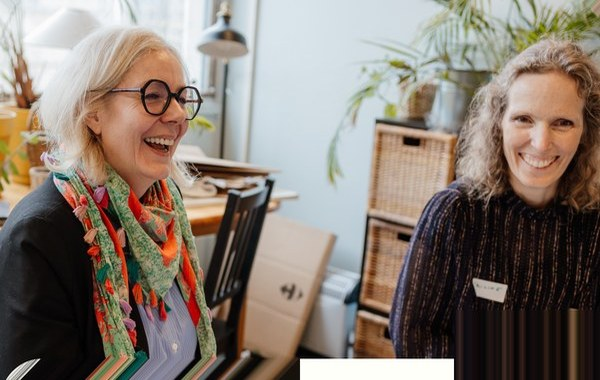
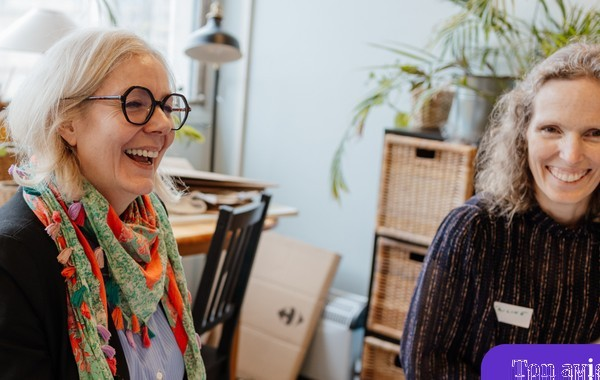
Use full-bleed hero photos only; overlay badges with HTML/CSS.

diff --git a/email-02.html b/email-02.html
@@ -107,34 +107,36 @@
                 </a>
               </td>
             </tr>
-            <!-- Hero image (clean photo; radii via CSS) -->
+            <!-- Hero: full photo only; CSS radii + HTML badge overlay -->
             <tr>
               <td align="center" bgcolor="#FFFFFF" style="background-color:#FFFFFF;padding:0;line-height:0;font-size:0;">
                 <!--[if !mso]><!-->
-                <picture>
-                  <source type="image/webp" srcset="images/email-02-hero-600.webp">
-                  <img src="images/email-02-hero-600.jpg" width="600" height="380" alt="Enfants jouant avec des blocs" fetchpriority="high" decoding="async" style="display:block;border:0;outline:none;text-decoration:none;width:100%;max-width:600px;height:auto;border-top-left-radius:24px;border-top-right-radius:24px;border-bottom-right-radius:6px;border-bottom-left-radius:6px;" />
-                </picture>
-                <!--<![endif]-->
-                <!--[if mso]>
-                <img src="images/email-02-hero.jpg" width="600" height="380" alt="Enfants jouant avec des blocs" style="display:block;border:0;outline:none;text-decoration:none;width:600px;height:380px;" />
-                <![endif]-->
-              </td>
-            </tr>
-            <!-- Intro: scoop radius + HTML badges on the image/content seam -->
-            <tr>
-              <td align="center" bgcolor="#FFFFF9" class="mobile-pad" style="background-color:#FFFFF9;padding:0 61px 37px 61px;border-top-left-radius:42px;border-top-right-radius:0;border-bottom-right-radius:0;border-bottom-left-radius:0;">
-                <!--[if !mso]><!-->
-                <div style="text-align:right;margin:-42px -61px 37px 0;line-height:normal;font-size:0;">
-                  <span style="display:inline-block;padding:9px 18px;background-color:#F8F3FF;color:#5F2EC8;font-family:'Merriweather',Georgia,'Times New Roman',serif;font-size:14px;line-height:18px;font-weight:800;border-top-left-radius:22px;border-top-right-radius:0;border-bottom-right-radius:0;border-bottom-left-radius:22px;vertical-align:middle;">Spécial Inclusion</span><span style="display:inline-block;padding:12px 22px;background-color:#5F2EC8;color:#FFFFFF;font-family:'Merriweather',Georgia,'Times New Roman',serif;font-size:14px;line-height:18px;font-weight:800;border-top-left-radius:0;border-top-right-radius:22px;border-bottom-right-radius:22px;border-bottom-left-radius:0;vertical-align:middle;">Maternelle</span>
+                <div style="max-width:600px;margin:0 auto;position:relative;line-height:0;font-size:0;">
+                  <picture>
+                    <source type="image/webp" srcset="images/email-02-hero-600.webp">
+                    <img src="images/email-02-hero-600.jpg" width="600" height="380" alt="Enfants jouant avec des blocs" fetchpriority="high" decoding="async" style="display:block;border:0;outline:none;text-decoration:none;width:100%;max-width:600px;height:auto;border-top-left-radius:24px;border-top-right-radius:24px;border-bottom-right-radius:6px;border-bottom-left-radius:6px;" />
+                  </picture>
+                  <div style="position:absolute;right:0;bottom:0;line-height:normal;font-size:0;text-align:right;">
+                    <span style="display:inline-block;padding:9px 18px;background-color:#F8F3FF;color:#5F2EC8;font-family:'Merriweather',Georgia,'Times New Roman',serif;font-size:14px;line-height:18px;font-weight:800;border-top-left-radius:22px;border-top-right-radius:0;border-bottom-right-radius:0;border-bottom-left-radius:22px;vertical-align:middle;">Spécial Inclusion</span><span style="display:inline-block;padding:12px 22px;background-color:#5F2EC8;color:#FFFFFF;font-family:'Merriweather',Georgia,'Times New Roman',serif;font-size:14px;line-height:18px;font-weight:800;border-top-left-radius:0;border-top-right-radius:22px;border-bottom-right-radius:22px;border-bottom-left-radius:0;vertical-align:middle;">Maternelle</span>
+                  </div>
                 </div>
                 <!--<![endif]-->
                 <!--[if mso]>
-                <table role="presentation" cellspacing="0" cellpadding="0" border="0" align="right" style="margin:0 0 16px 0;"><tr>
-                  <td bgcolor="#F8F3FF" style="padding:9px 18px;font-family:Georgia,serif;font-size:14px;font-weight:800;color:#5F2EC8;">Spécial Inclusion</td>
-                  <td bgcolor="#5F2EC8" style="padding:12px 22px;font-family:Georgia,serif;font-size:14px;font-weight:800;color:#FFFFFF;">Maternelle</td>
+                <img src="images/email-02-hero.jpg" width="600" height="380" alt="Enfants jouant avec des blocs" style="display:block;border:0;outline:none;text-decoration:none;width:600px;height:380px;" />
+                <table role="presentation" cellspacing="0" cellpadding="0" border="0" width="600" align="center"><tr>
+                  <td align="right" style="padding:0;">
+                    <table role="presentation" cellspacing="0" cellpadding="0" border="0" align="right"><tr>
+                      <td bgcolor="#F8F3FF" style="padding:9px 18px;font-family:Georgia,serif;font-size:14px;font-weight:800;color:#5F2EC8;">Spécial Inclusion</td>
+                      <td bgcolor="#5F2EC8" style="padding:12px 22px;font-family:Georgia,serif;font-size:14px;font-weight:800;color:#FFFFFF;">Maternelle</td>
+                    </tr></table>
+                  </td>
                 </tr></table>
                 <![endif]-->
+              </td>
+            </tr>
+            <!-- Intro -->
+            <tr>
+              <td align="center" bgcolor="#FFFFF9" class="mobile-pad" style="background-color:#FFFFF9;padding:37px 61px;border-top-left-radius:42px;border-top-right-radius:0;border-bottom-right-radius:0;border-bottom-left-radius:0;">
                 <h1 style="margin:0 0 16px 0;font-family:'Merriweather',Georgia,serif;font-size:29px;line-height:35px;font-weight:600;color:#313233;text-align:center;">
                   L'essentiel pour ta classe
                 </h1>

diff --git a/email-05.html b/email-05.html
@@ -89,33 +89,35 @@
                 </a>
               </td>
             </tr>
-            <!-- Hero image (clean photo; radii via CSS) -->
+            <!-- Hero: full photo only; CSS radii + HTML badge overlay -->
             <tr>
               <td align="center" bgcolor="#FFFFFF" style="background-color:#FFFFFF;padding:0;line-height:0;font-size:0;">
                 <!--[if !mso]><!-->
-                <picture>
-                  <source type="image/webp" srcset="images/email-05-hero-600.webp">
-                  <img src="images/email-05-hero-600.jpg" width="600" height="380" alt="Équipe dans la salle des professeurs" fetchpriority="high" decoding="async" style="display:block;border:0;outline:none;text-decoration:none;width:100%;max-width:600px;height:auto;border-top-left-radius:24px;border-top-right-radius:24px;border-bottom-right-radius:6px;border-bottom-left-radius:6px;" />
-                </picture>
-                <!--<![endif]-->
-                <!--[if mso]>
-                <img src="images/email-05-hero.jpg" width="600" height="380" alt="Équipe dans la salle des professeurs" style="display:block;border:0;outline:none;text-decoration:none;width:600px;height:380px;" />
-                <![endif]-->
-              </td>
-            </tr>
-            <!-- Intro: scoop radius + HTML badge -->
-            <tr>
-              <td align="center" bgcolor="#FFFFF9" class="mobile-pad" style="background-color:#FFFFF9;padding:0 66px 24px 66px;border-top-left-radius:42px;border-top-right-radius:0;border-bottom-right-radius:0;border-bottom-left-radius:0;">
-                <!--[if !mso]><!-->
-                <div style="text-align:right;margin:-39px -66px 30px 0;line-height:normal;font-size:0;">
-                  <span style="display:inline-block;padding:12px 22px;background-color:#5F2EC8;color:#FFFFFF;font-family:'Merriweather',Georgia,'Times New Roman',serif;font-size:12px;line-height:15px;font-weight:800;border-top-left-radius:22px;border-top-right-radius:0;border-bottom-right-radius:0;border-bottom-left-radius:0;">Salle des professeurs - Maternelle Michel Bizot</span>
+                <div style="max-width:600px;margin:0 auto;position:relative;line-height:0;font-size:0;">
+                  <picture>
+                    <source type="image/webp" srcset="images/email-05-hero-600.webp">
+                    <img src="images/email-05-hero-600.jpg" width="600" height="380" alt="Équipe dans la salle des professeurs" fetchpriority="high" decoding="async" style="display:block;border:0;outline:none;text-decoration:none;width:100%;max-width:600px;height:auto;border-top-left-radius:24px;border-top-right-radius:24px;border-bottom-right-radius:6px;border-bottom-left-radius:6px;" />
+                  </picture>
+                  <div style="position:absolute;right:0;bottom:0;line-height:normal;font-size:0;text-align:right;">
+                    <span style="display:inline-block;padding:12px 22px;background-color:#5F2EC8;color:#FFFFFF;font-family:'Merriweather',Georgia,'Times New Roman',serif;font-size:12px;line-height:15px;font-weight:800;border-top-left-radius:22px;border-top-right-radius:0;border-bottom-right-radius:0;border-bottom-left-radius:0;">Salle des professeurs - Maternelle Michel Bizot</span>
+                  </div>
                 </div>
                 <!--<![endif]-->
                 <!--[if mso]>
-                <table role="presentation" cellspacing="0" cellpadding="0" border="0" align="right" style="margin:0 0 16px 0;"><tr>
-                  <td bgcolor="#5F2EC8" style="padding:12px 22px;font-family:Georgia,serif;font-size:12px;font-weight:800;color:#FFFFFF;">Salle des professeurs - Maternelle Michel Bizot</td>
+                <img src="images/email-05-hero.jpg" width="600" height="380" alt="Équipe dans la salle des professeurs" style="display:block;border:0;outline:none;text-decoration:none;width:600px;height:380px;" />
+                <table role="presentation" cellspacing="0" cellpadding="0" border="0" width="600" align="center"><tr>
+                  <td align="right" style="padding:0;">
+                    <table role="presentation" cellspacing="0" cellpadding="0" border="0" align="right"><tr>
+                      <td bgcolor="#5F2EC8" style="padding:12px 22px;font-family:Georgia,serif;font-size:12px;font-weight:800;color:#FFFFFF;">Salle des professeurs - Maternelle Michel Bizot</td>
+                    </tr></table>
+                  </td>
                 </tr></table>
                 <![endif]-->
+              </td>
+            </tr>
+            <!-- Intro -->
+            <tr>
+              <td align="center" bgcolor="#FFFFF9" class="mobile-pad" style="background-color:#FFFFF9;padding:30px 66px 24px 66px;border-top-left-radius:42px;border-top-right-radius:0;border-bottom-right-radius:0;border-bottom-left-radius:0;">
                 <table role="presentation" cellspacing="0" cellpadding="0" border="0" align="center" style="margin:0 auto 16px auto;">
                   <tr>
                     <td align="center" valign="middle" style="padding:0 4px;line-height:0;font-size:0;">

diff --git a/email-03.html b/email-03.html
@@ -107,33 +107,35 @@
                 </a>
               </td>
             </tr>
-            <!-- Hero image (clean photo; radii via CSS) -->
+            <!-- Hero: full photo only; CSS radii + HTML badge overlay -->
             <tr>
               <td align="center" bgcolor="#FFFFFF" style="background-color:#FFFFFF;padding:0;line-height:0;font-size:0;">
                 <!--[if !mso]><!-->
-                <picture>
-                  <source type="image/webp" srcset="images/email-03-hero-600.webp">
-                  <img src="images/email-03-hero-600.jpg" width="600" height="380" alt="Enseignantes préparant une séance" fetchpriority="high" decoding="async" style="display:block;border:0;outline:none;text-decoration:none;width:100%;max-width:600px;height:auto;border-top-left-radius:24px;border-top-right-radius:24px;border-bottom-right-radius:6px;border-bottom-left-radius:6px;" />
-                </picture>
-                <!--<![endif]-->
-                <!--[if mso]>
-                <img src="images/email-03-hero.jpg" width="600" height="380" alt="Enseignantes préparant une séance" style="display:block;border:0;outline:none;text-decoration:none;width:600px;height:380px;" />
-                <![endif]-->
-              </td>
-            </tr>
-            <!-- Intro: scoop radius + HTML badge -->
-            <tr>
-              <td align="center" bgcolor="#FFFFF9" class="mobile-pad" style="background-color:#FFFFF9;padding:0 66px 24px 66px;border-top-left-radius:42px;border-top-right-radius:0;border-bottom-right-radius:0;border-bottom-left-radius:0;">
-                <!--[if !mso]><!-->
-                <div style="text-align:right;margin:-42px -66px 30px 0;line-height:normal;font-size:0;">
-                  <span style="display:inline-block;padding:12px 22px;background-color:#5F2EC8;color:#FFFFFF;font-family:'Merriweather',Georgia,'Times New Roman',serif;font-size:14px;line-height:18px;font-weight:800;border-top-left-radius:22px;border-top-right-radius:0;border-bottom-right-radius:0;border-bottom-left-radius:0;">Top chrono : 10 min</span>
+                <div style="max-width:600px;margin:0 auto;position:relative;line-height:0;font-size:0;">
+                  <picture>
+                    <source type="image/webp" srcset="images/email-03-hero-600.webp">
+                    <img src="images/email-03-hero-600.jpg" width="600" height="380" alt="Enseignantes préparant une séance" fetchpriority="high" decoding="async" style="display:block;border:0;outline:none;text-decoration:none;width:100%;max-width:600px;height:auto;border-top-left-radius:24px;border-top-right-radius:24px;border-bottom-right-radius:6px;border-bottom-left-radius:6px;" />
+                  </picture>
+                  <div style="position:absolute;right:0;bottom:0;line-height:normal;font-size:0;text-align:right;">
+                    <span style="display:inline-block;padding:12px 22px;background-color:#5F2EC8;color:#FFFFFF;font-family:'Merriweather',Georgia,'Times New Roman',serif;font-size:14px;line-height:18px;font-weight:800;border-top-left-radius:22px;border-top-right-radius:0;border-bottom-right-radius:0;border-bottom-left-radius:0;">Top chrono : 10 min</span>
+                  </div>
                 </div>
                 <!--<![endif]-->
                 <!--[if mso]>
-                <table role="presentation" cellspacing="0" cellpadding="0" border="0" align="right" style="margin:0 0 16px 0;"><tr>
-                  <td bgcolor="#5F2EC8" style="padding:12px 22px;font-family:Georgia,serif;font-size:14px;font-weight:800;color:#FFFFFF;">Top chrono : 10 min</td>
+                <img src="images/email-03-hero.jpg" width="600" height="380" alt="Enseignantes préparant une séance" style="display:block;border:0;outline:none;text-decoration:none;width:600px;height:380px;" />
+                <table role="presentation" cellspacing="0" cellpadding="0" border="0" width="600" align="center"><tr>
+                  <td align="right" style="padding:0;">
+                    <table role="presentation" cellspacing="0" cellpadding="0" border="0" align="right"><tr>
+                      <td bgcolor="#5F2EC8" style="padding:12px 22px;font-family:Georgia,serif;font-size:14px;font-weight:800;color:#FFFFFF;">Top chrono : 10 min</td>
+                    </tr></table>
+                  </td>
                 </tr></table>
                 <![endif]-->
+              </td>
+            </tr>
+            <!-- Intro -->
+            <tr>
+              <td align="center" bgcolor="#FFFFF9" class="mobile-pad" style="background-color:#FFFFF9;padding:30px 66px 24px 66px;border-top-left-radius:42px;border-top-right-radius:0;border-bottom-right-radius:0;border-bottom-left-radius:0;">
                 <table role="presentation" cellspacing="0" cellpadding="0" border="0" align="center" style="margin:0 auto 16px auto;">
                   <tr>
                     <td align="center" valign="middle" style="padding:0 4px;line-height:0;font-size:0;">

diff --git a/email-01.html b/email-01.html
@@ -97,33 +97,35 @@
                 </a>
               </td>
             </tr>
-            <!-- Hero image (clean photo; radii via CSS) -->
+            <!-- Hero: full photo only; CSS radii + HTML badge overlay -->
             <tr>
               <td align="center" bgcolor="#FFFFFF" style="background-color:#FFFFFF;padding:0;line-height:0;font-size:0;">
                 <!--[if !mso]><!-->
-                <picture>
-                  <source type="image/webp" srcset="images/email-01-hero-600.webp">
-                  <img src="images/email-01-hero-600.jpg" width="600" height="380" alt="Deux enseignantes souriantes" fetchpriority="high" decoding="async" style="display:block;border:0;outline:none;text-decoration:none;width:100%;max-width:600px;height:auto;border-top-left-radius:24px;border-top-right-radius:24px;border-bottom-right-radius:6px;border-bottom-left-radius:6px;" />
-                </picture>
-                <!--<![endif]-->
-                <!--[if mso]>
-                <img src="images/email-01-hero.jpg" width="600" height="380" alt="Deux enseignantes souriantes" style="display:block;border:0;outline:none;text-decoration:none;width:600px;height:380px;" />
-                <![endif]-->
-              </td>
-            </tr>
-            <!-- Title / CTA: scoop radius + HTML badge -->
-            <tr>
-              <td align="center" bgcolor="#FFFFF9" class="mobile-pad" style="background-color:#FFFFF9;padding:0 66px 40px 66px;border-top-left-radius:42px;border-top-right-radius:0;border-bottom-right-radius:0;border-bottom-left-radius:0;">
-                <!--[if !mso]><!-->
-                <div style="text-align:right;margin:-43px -66px 30px 0;line-height:normal;font-size:0;">
-                  <span style="display:inline-block;padding:12px 22px;background-color:#5F2EC8;color:#FFFFFF;font-family:'Merriweather',Georgia,'Times New Roman',serif;font-size:20px;line-height:25px;font-weight:800;border-top-left-radius:22px;border-top-right-radius:0;border-bottom-right-radius:0;border-bottom-left-radius:0;">Ton avis</span>
+                <div style="max-width:600px;margin:0 auto;position:relative;line-height:0;font-size:0;">
+                  <picture>
+                    <source type="image/webp" srcset="images/email-01-hero-600.webp">
+                    <img src="images/email-01-hero-600.jpg" width="600" height="380" alt="Deux enseignantes souriantes" fetchpriority="high" decoding="async" style="display:block;border:0;outline:none;text-decoration:none;width:100%;max-width:600px;height:auto;border-top-left-radius:24px;border-top-right-radius:24px;border-bottom-right-radius:6px;border-bottom-left-radius:6px;" />
+                  </picture>
+                  <div style="position:absolute;right:0;bottom:0;line-height:normal;font-size:0;text-align:right;">
+                    <span style="display:inline-block;padding:12px 22px;background-color:#5F2EC8;color:#FFFFFF;font-family:'Merriweather',Georgia,'Times New Roman',serif;font-size:20px;line-height:25px;font-weight:800;border-top-left-radius:22px;border-top-right-radius:0;border-bottom-right-radius:0;border-bottom-left-radius:0;">Ton avis</span>
+                  </div>
                 </div>
                 <!--<![endif]-->
                 <!--[if mso]>
-                <table role="presentation" cellspacing="0" cellpadding="0" border="0" align="right" style="margin:0 0 16px 0;"><tr>
-                  <td bgcolor="#5F2EC8" style="padding:12px 22px;font-family:Georgia,serif;font-size:20px;font-weight:800;color:#FFFFFF;">Ton avis</td>
+                <img src="images/email-01-hero.jpg" width="600" height="380" alt="Deux enseignantes souriantes" style="display:block;border:0;outline:none;text-decoration:none;width:600px;height:380px;" />
+                <table role="presentation" cellspacing="0" cellpadding="0" border="0" width="600" align="center"><tr>
+                  <td align="right" style="padding:0;">
+                    <table role="presentation" cellspacing="0" cellpadding="0" border="0" align="right"><tr>
+                      <td bgcolor="#5F2EC8" style="padding:12px 22px;font-family:Georgia,serif;font-size:20px;font-weight:800;color:#FFFFFF;">Ton avis</td>
+                    </tr></table>
+                  </td>
                 </tr></table>
                 <![endif]-->
+              </td>
+            </tr>
+            <!-- Title / CTA -->
+            <tr>
+              <td align="center" bgcolor="#FFFFF9" class="mobile-pad" style="background-color:#FFFFF9;padding:30px 66px 40px 66px;border-top-left-radius:42px;border-top-right-radius:0;border-bottom-right-radius:0;border-bottom-left-radius:0;">
                 <h1 style="margin:0 0 25px 0;font-family:'Merriweather',Georgia,'Times New Roman',serif;font-size:29px;line-height:35px;font-weight:500;color:#313233;text-align:center;">
                   On construit la suite avec toi.
                 </h1>
